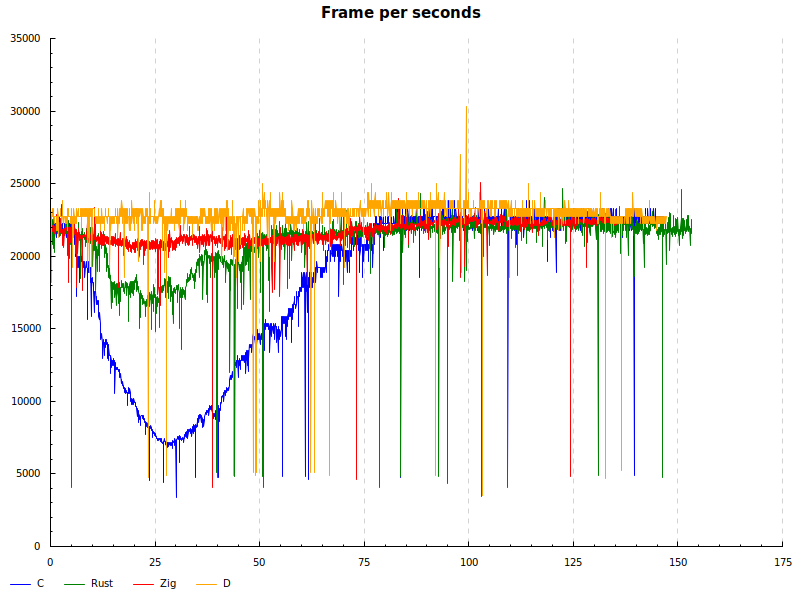
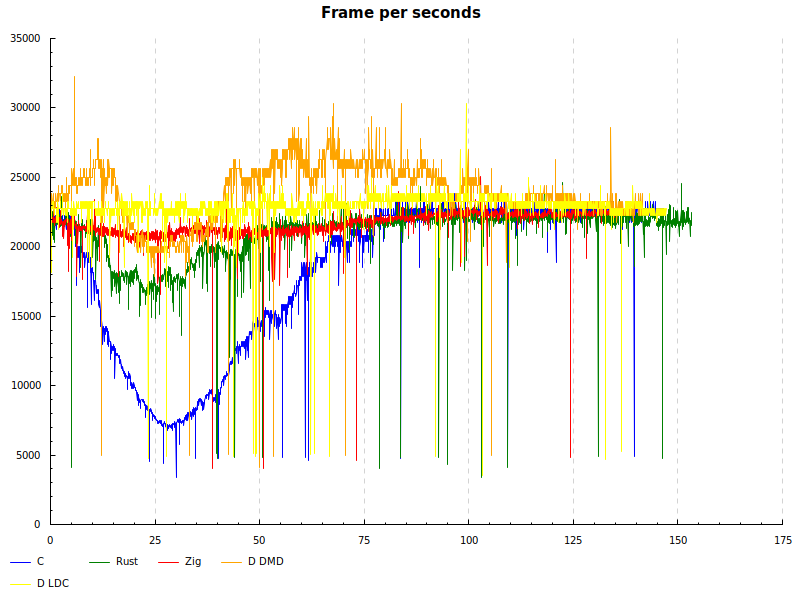
Update readme

diff --git a/README.md b/README.md
@@ -52,7 +52,7 @@ In haskell nix-shell.
 ![FPS](./fps_many.png)
 
 ### Haskell
-FPS now stable 40-100, smooth gameplay, but there are noticable freezes at, possibly, major GCs.
+FPS now stable 40-100, smooth gameplay, but there are noticeable freezes at, possibly, major GCs.
 ![Haskell FPS](./haskell/fps.png)
 
 ### C
@@ -61,11 +61,20 @@ There is smooth gameplay. Some drops can be explained by interference of other s
 
 ### Rust
 Smooth gameplay. It was quite easy to implement the game and get high performance from first try.
-![C FPS](./rust/fps.png)
+![Rust FPS](./rust/fps.png)
 
 ### Zig
-The most stable frame rate. Feels like insane upgrade over C in development experience and performance.
-![C FPS](./zig/asteroids/fps.png)
+Very stable frame rate. Feels like great upgrade over C in development experience and performance.
+![Zig FPS](./zig/asteroids/fps.png)
+
+### D
+There are two different compilers. First, DMD is original implementation of language. Second, LDC is
+LLVM based implementation. DMD is usually slower than LDC, but in the particular case it's not. I have
+no idea why DMD generates code that is FASTER for rendering dozens of asteroids than rendering empty screen.
+LDC behaves like other LLVM based languages (stable constant FPS), but FPS slightly higher than the closest competitor (Zig).
+I implemented custom ECS in the implementation and it feels like the closest to the "production" state.
+
+![D FPS](./zig/asteroids/fps.png)
 
 ### My machine
 
